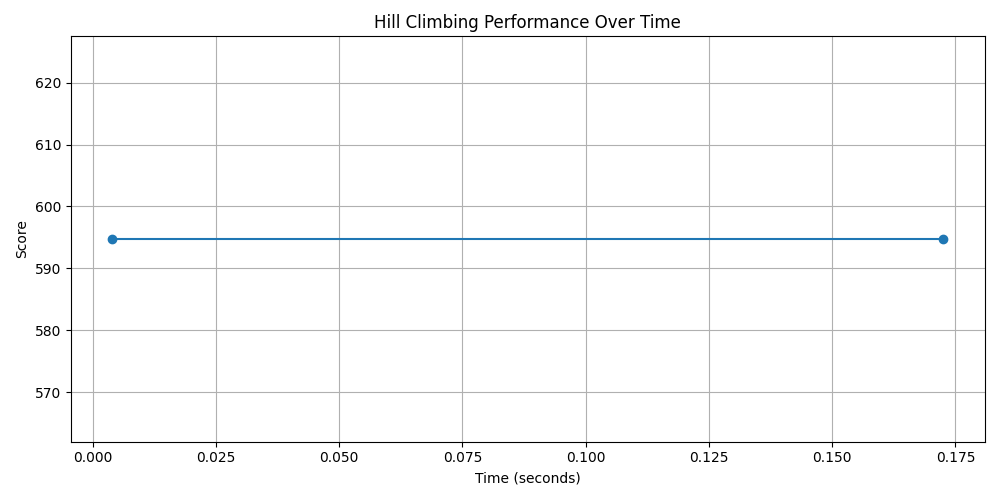
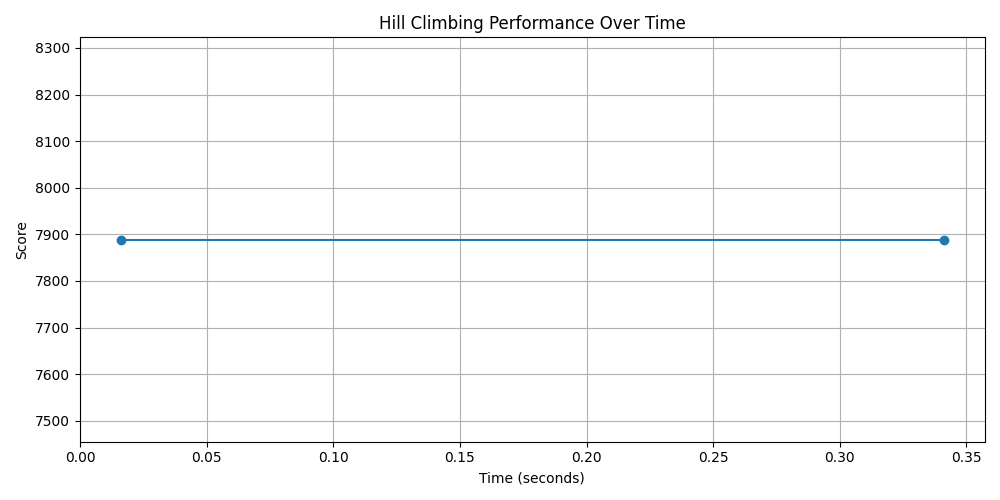
updated tabu_search statistics

diff --git a/main.py b/main.py
@@ -104,7 +104,7 @@ def hill_climbing_schedule_landings(airplane_stream):
 
 
 """
-    |----------------------------------------------------------------------------------------------|
+|---------------------------------------------------------------------------------------------------|
     Schedules landings for an airplane stream using the Simulated Annealing optimization algorithm.
     
     Parameters: 
@@ -116,8 +116,8 @@ def hill_climbing_schedule_landings(airplane_stream):
             - DataFrame containing the optimized landing schedule.
             - Final score of the optimized schedule indicating its performance.
 
-    |----------------------------------------------------------------------------------------------|
-    """
+|---------------------------------------------------------------------------------------------------|
+"""
 def simulated_annealing_schedule_landings(airplane_stream):
     def evaluate_adjusted_landing_schedule(schedule_df):
         total_score = 0
@@ -176,6 +176,10 @@ def simulated_annealing_schedule_landings(airplane_stream):
 """
 
 def tabu_search_schedule_landings(airplane_stream, max_iterations=1000, max_tabu_size=10):
+    start_time = time.time()  # Start timing the algorithm
+    times = []  # To store elapsed times of each score calculation
+    scores = []  # To store scores of each iteration
+
     # Verificar se um avião é urgente
     for airplane in airplane_stream:
         airplane.is_urgent = airplane.fuel_level_final < airplane.emergency_fuel or airplane.remaining_flying_time < airplane.expected_landing_time
@@ -183,9 +187,10 @@ def tabu_search_schedule_landings(airplane_stream, max_iterations=1000, max_tabu
     # Declaração de variáveis
     landing_schedule_df = schedule_landings(airplane_stream)
     current_score = evaluate_landing_schedule(landing_schedule_df, airplane_stream)
-    scores = []
+
     tabu_list = []
     it = 0
+  
 
     # Ciclo while que efetua a busca tabu até atingir o número máximo de iterações
     while it < max_iterations:
@@ -193,7 +198,9 @@ def tabu_search_schedule_landings(airplane_stream, max_iterations=1000, max_tabu
         # (como melhor solução encontrada até ao momento)
         neighbors = get_tabu_successors(landing_schedule_df, airplane_stream)
         next_state_df = landing_schedule_df
+        # Record the time for the initial score and for each iteration
         scores.append(current_score)
+        times.append(time.time() - start_time)
         next_score = current_score
 
         best_solution_df = landing_schedule_df
@@ -219,9 +226,10 @@ def tabu_search_schedule_landings(airplane_stream, max_iterations=1000, max_tabu
         tabu_list.append(next_state_df.to_string())
         if len(tabu_list) > max_tabu_size:
             tabu_list.pop(0)
+
         it += 1
     
-    return landing_schedule_df, scores
+    return landing_schedule_df, times, scores
 
 def genetic_algorithm_schedule_landings(airplane_stream, population_size=50, generations=50, crossover_rate=0.8, mutation_rate=0.05):
     population = [generate_initial_schedule(airplane_stream) for _ in range(population_size)]
@@ -345,6 +353,7 @@ def main():
             print("Final landing schedule:")
             print(landing_schedule_df.to_string(index=False))
             plot_scores(times, scores, algorithm_name='Hill Climbing', filename='hill_climbing_performance.png')
+
         elif algorithm_choice == 2:
             print("Running Simulated Annealing algorithm...")
             landing_schedule_df, scores, times = simulated_annealing_schedule_landings(airplane_stream)
@@ -360,10 +369,12 @@ def main():
             max_tabu_size = get_input("Enter the maximum size of the tabu list for the Tabu Search algorithm (between 5-20): ", type_=int, min_=5, max_=20)
 
             print("Running Tabu Search algorithm...")
-            landing_schedule_df, scores = tabu_search_schedule_landings(airplane_stream, max_iterations, max_tabu_size)
+            landing_schedule_df, times, scores = tabu_search_schedule_landings(airplane_stream, max_iterations, max_tabu_size)
             print("Tabu Search algorithm finished.")
-            print("Final landing schedule:")
+            print("Final landing schedule with scores:")
             print(landing_schedule_df.to_string(index=False))
+            plot_scores(times, scores, algorithm_name='Tabu Search', filename='tabu_search_performance.png')
+
         elif algorithm_choice == 4:
             print("Running Genetic Algorithm...")
             best_schedule, best_score = genetic_algorithm_schedule_landings(airplane_stream)
